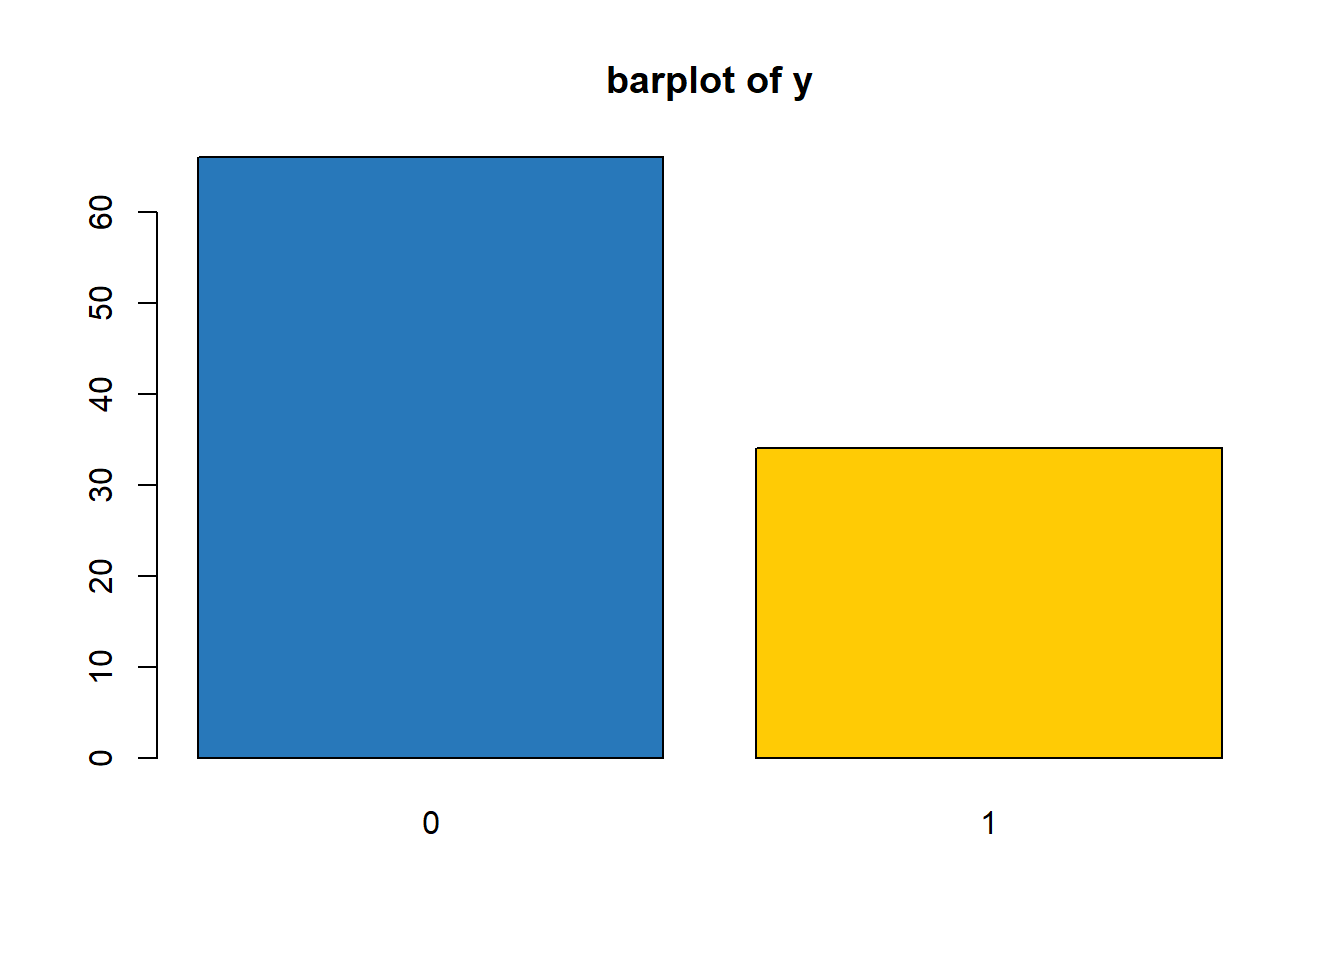
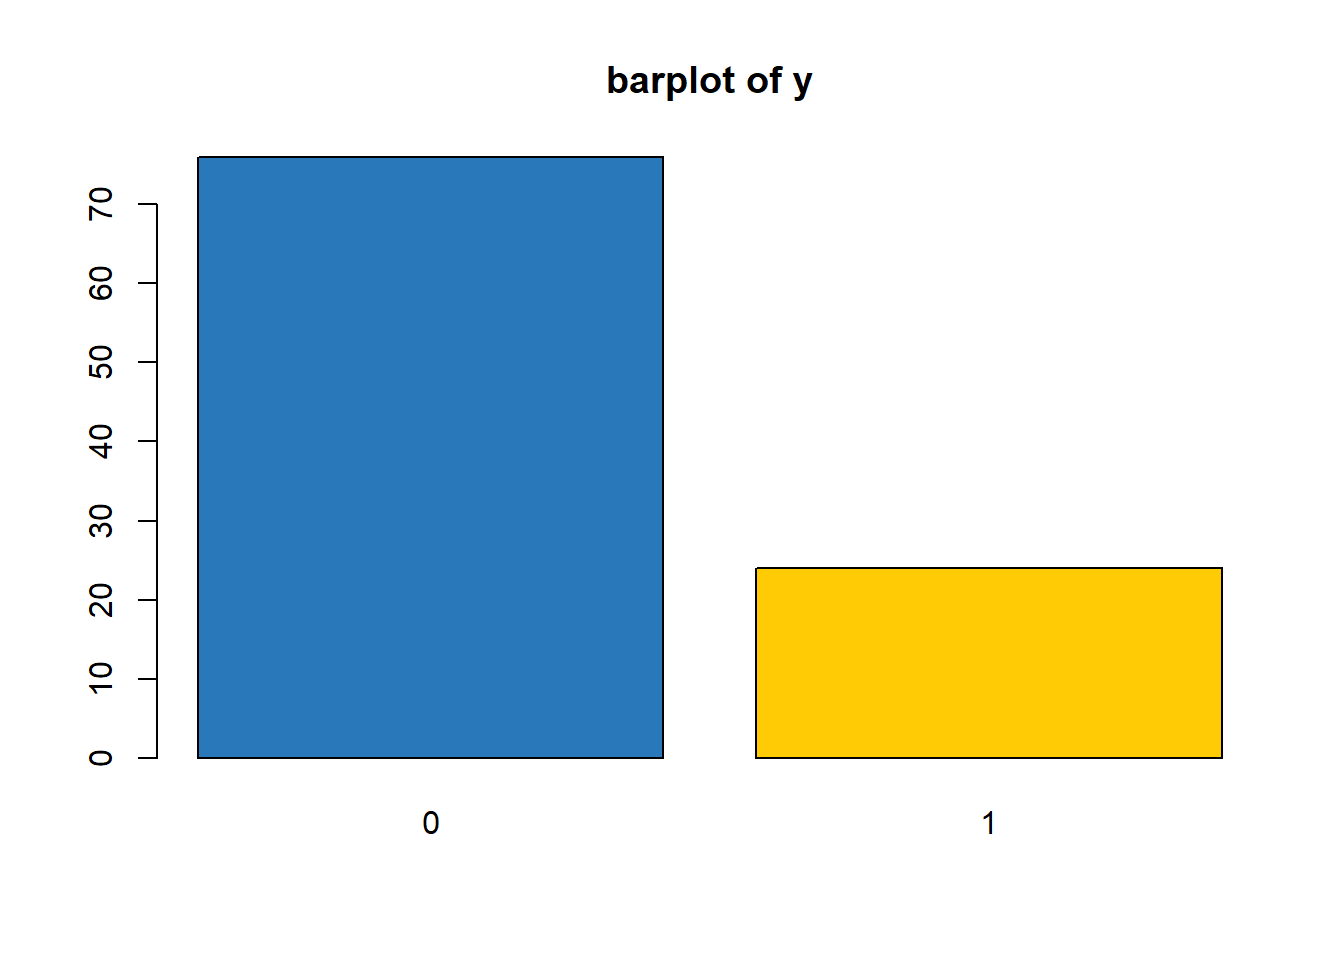
typo

diff --git a/introduction-to-R/introduction-to-R.html b/introduction-to-R/introduction-to-R.html
@@ -24,6 +24,7 @@
 <meta name="author" content="Andy Grogan-Kaylor" />
 
 
+<meta name="date" content="2021-01-03" />
 
   <meta name="viewport" content="width=device-width, initial-scale=1" />
   <meta name="apple-mobile-web-app-capable" content="yes" />
@@ -190,7 +191,7 @@ code span.wa { color: #008000; font-weight: bold; } /* Warning */
 <h1 class="title">Introduction to R</h1>
 <h2 class="subtitle"><em>A Practically Focused Guide</em></h2>
 <p class="author"><em>Andy Grogan-Kaylor</em></p>
-<p class="date"><em><code>Sys.Date()</code></em></p>
+<p class="date"><em>2021-01-03</em></p>
 </div>
 <div id="background" class="section level1">
 <h1><span class="header-section-number">1</span> Background</h1>
@@ -394,13 +395,13 @@ Figure 6.2: screenshot of RStudio
 </blockquote>
 <div class="sourceCode" id="cb19"><pre class="sourceCode r"><code class="sourceCode r"><span id="cb19-1"><a href="#cb19-1"></a><span class="kw">summary</span>(x1) </span></code></pre></div>
 <pre><code>##    Min. 1st Qu.  Median    Mean 3rd Qu.    Max. 
-##   68.29   93.86  101.64  100.53  106.72  123.48</code></pre>
+##   79.79   94.44  101.34  101.39  107.89  120.87</code></pre>
 <blockquote>
 <p>x2 is a factor.</p>
 </blockquote>
 <div class="sourceCode" id="cb21"><pre class="sourceCode r"><code class="sourceCode r"><span id="cb21-1"><a href="#cb21-1"></a><span class="kw">summary</span>(x2)</span></code></pre></div>
 <pre><code>##  0  1 
-## 76 24</code></pre>
+## 75 25</code></pre>
 <p>It can sometimes be useful to change variables from one type to another.</p>
 <div class="sourceCode" id="cb23"><pre class="sourceCode r"><code class="sourceCode r"><span id="cb23-1"><a href="#cb23-1"></a>mydata<span class="op">$</span>x &lt;-<span class="st"> </span><span class="kw">as.numeric</span>(mydata<span class="op">$</span>y)</span>
 <span id="cb23-2"><a href="#cb23-2"></a></span>
@@ -594,7 +595,7 @@ Figure 14.3: scatterplot of y against x
 <div id="comments-questions-and-corrections" class="section level1">
 <h1><span class="header-section-number">15</span> Comments, Questions and Corrections</h1>
 <p>Comments, questions and corrections most welcome and may be sent to: Andrew Grogan-Kaylor @ <a href="http://www.umich.edu/~agrogan">http://www.umich.edu/~agrogan</a> &amp; @ <a href="agrogan@umich.edu">agrogan@umich.edu</a>.</p>
-<p>Last updated: <code>January 03 2021</code> at <code>11:47</code></p>
+<p>Last updated: <code>January 03 2021</code> at <code>11:58</code></p>
 </div>
 <div class="footnotes">
 <hr />
